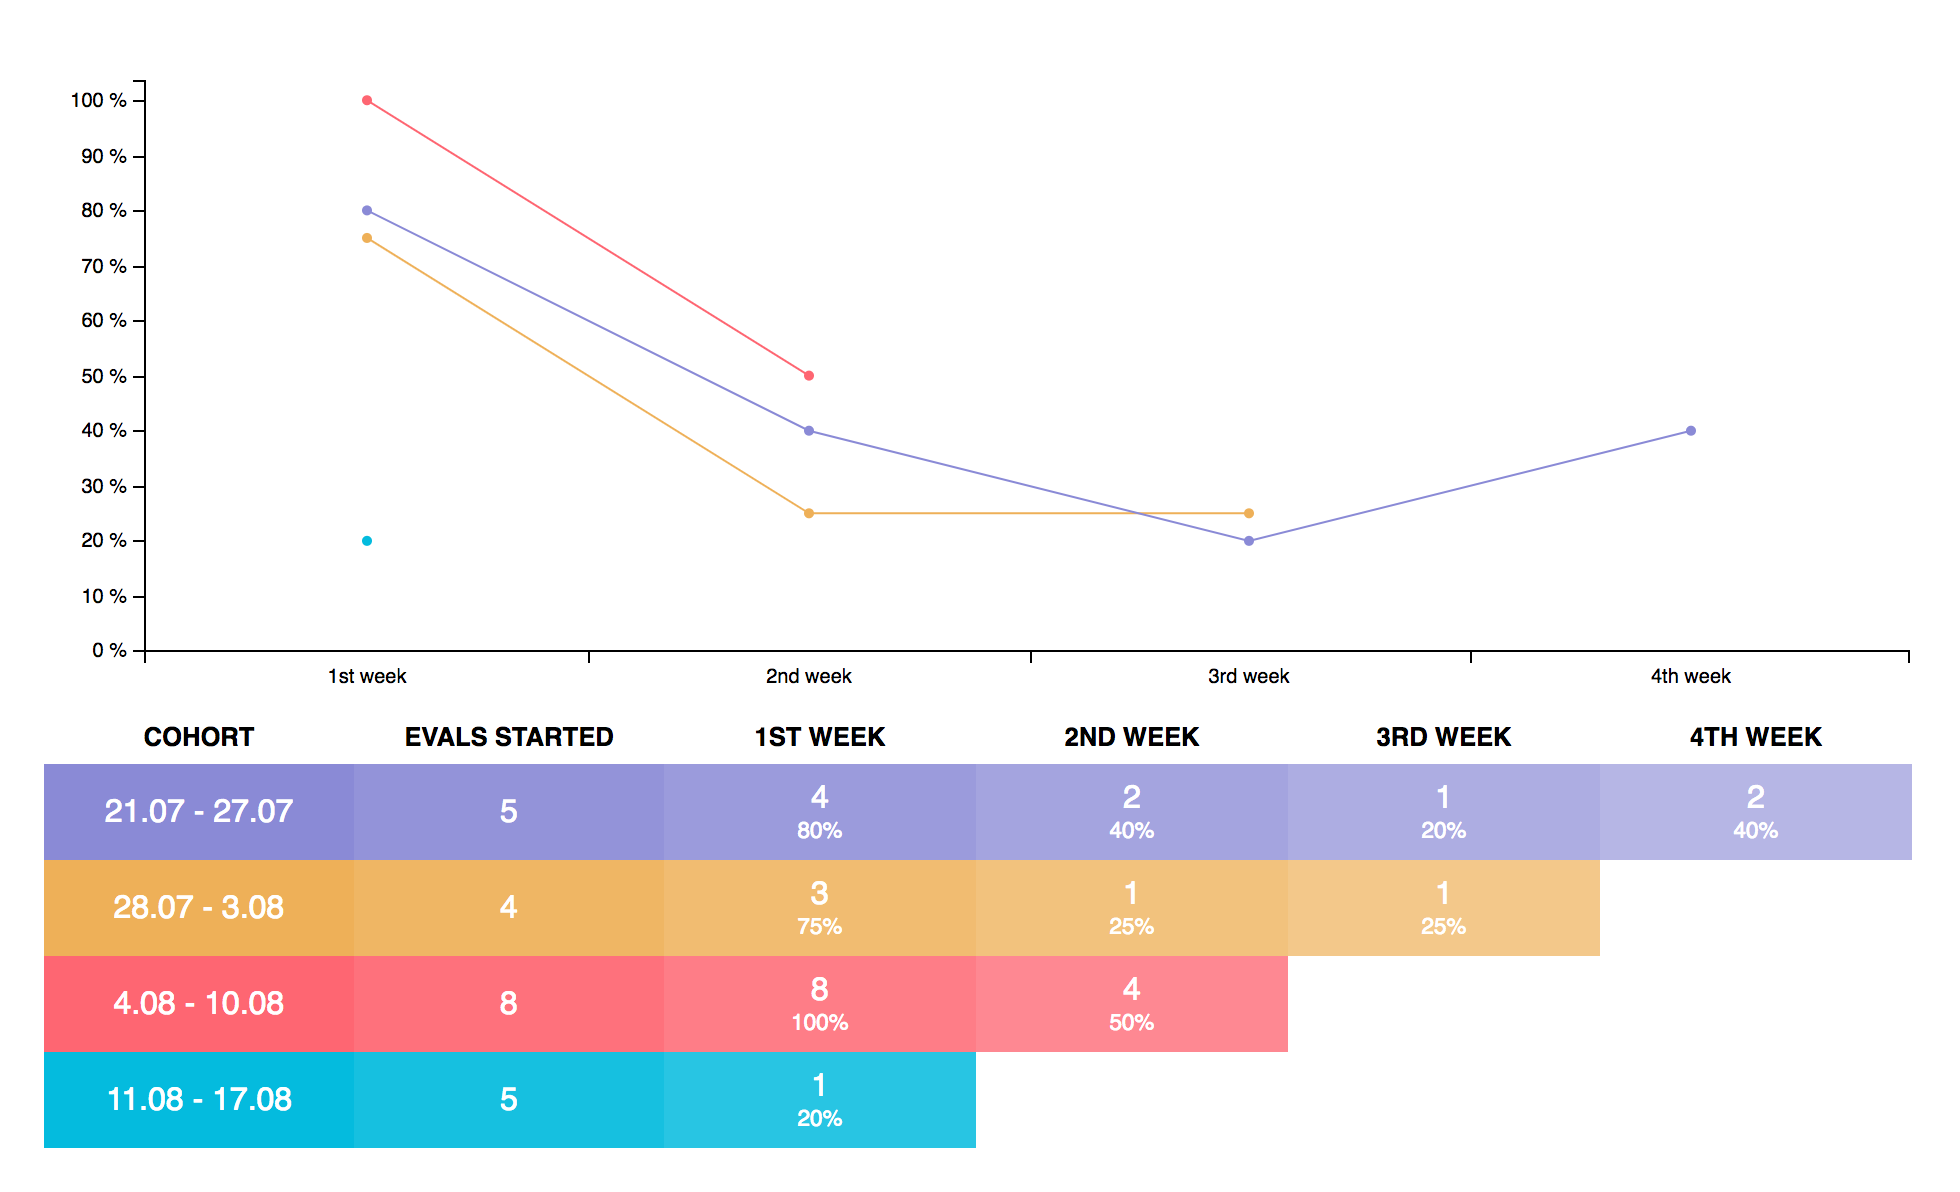
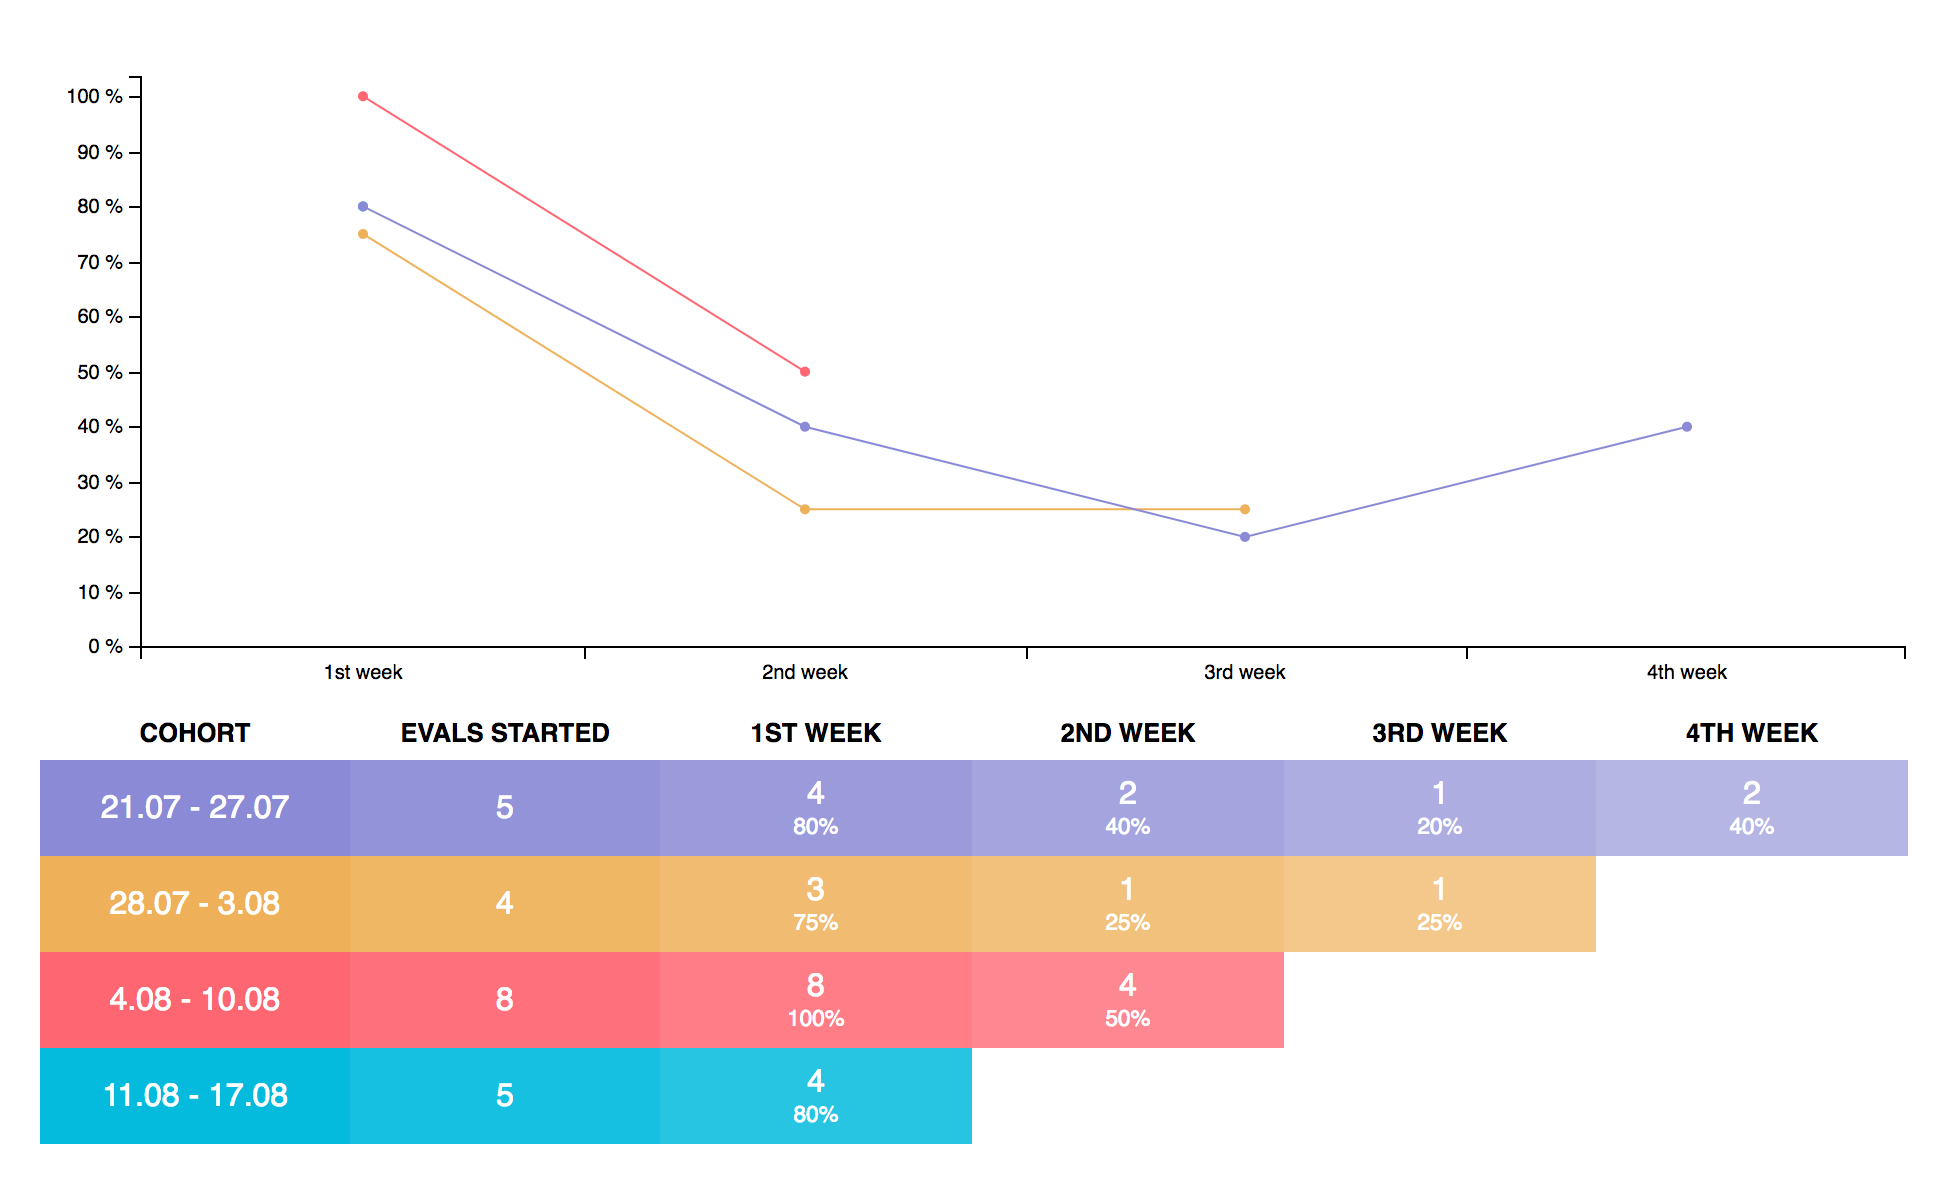
🐛 fix sample data and screenshot

diff --git a/README.md b/README.md
@@ -1,6 +1,6 @@
 # Retention - build retention matrix, render table or chart with data
 
-![Screenshot](screenshot.png)
+![Screenshot](https://raw.githubusercontent.com/marszall87/retention/master/screenshot.png)
 
 ## Installation
 
